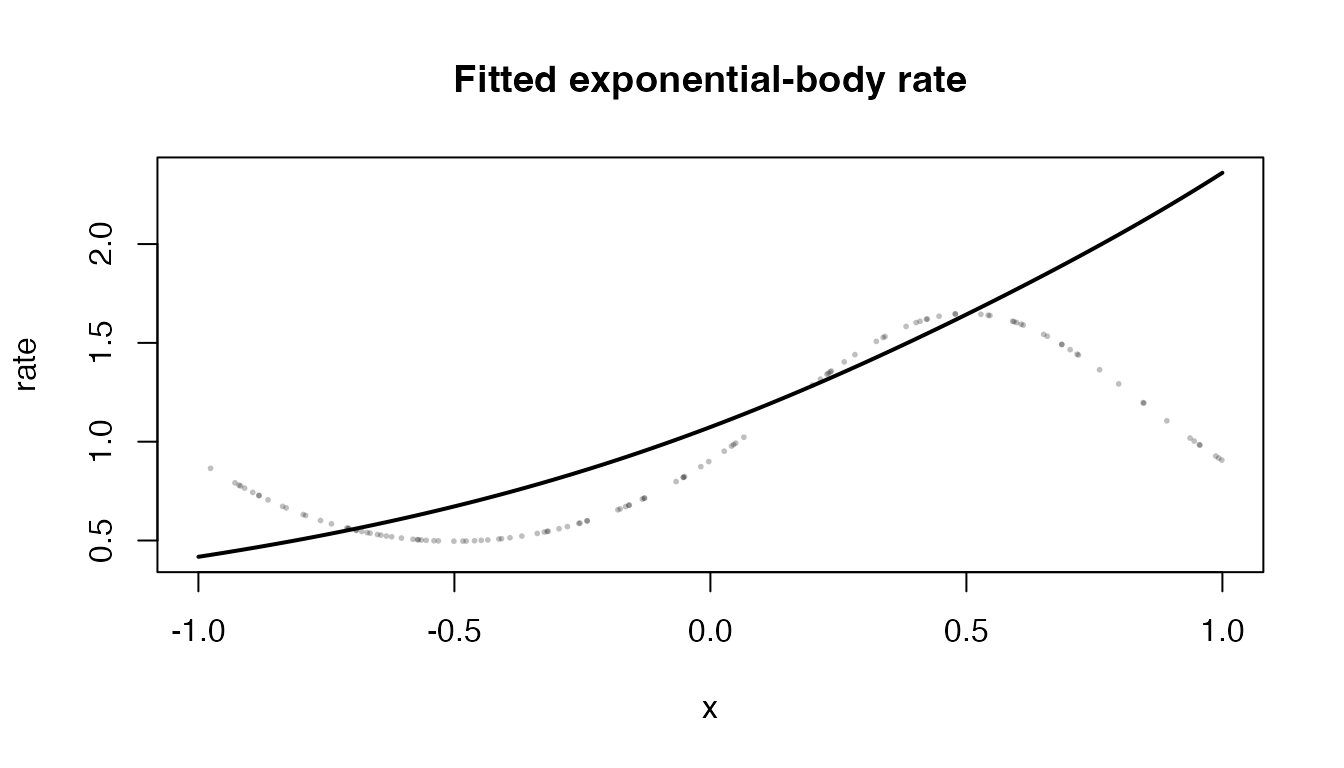
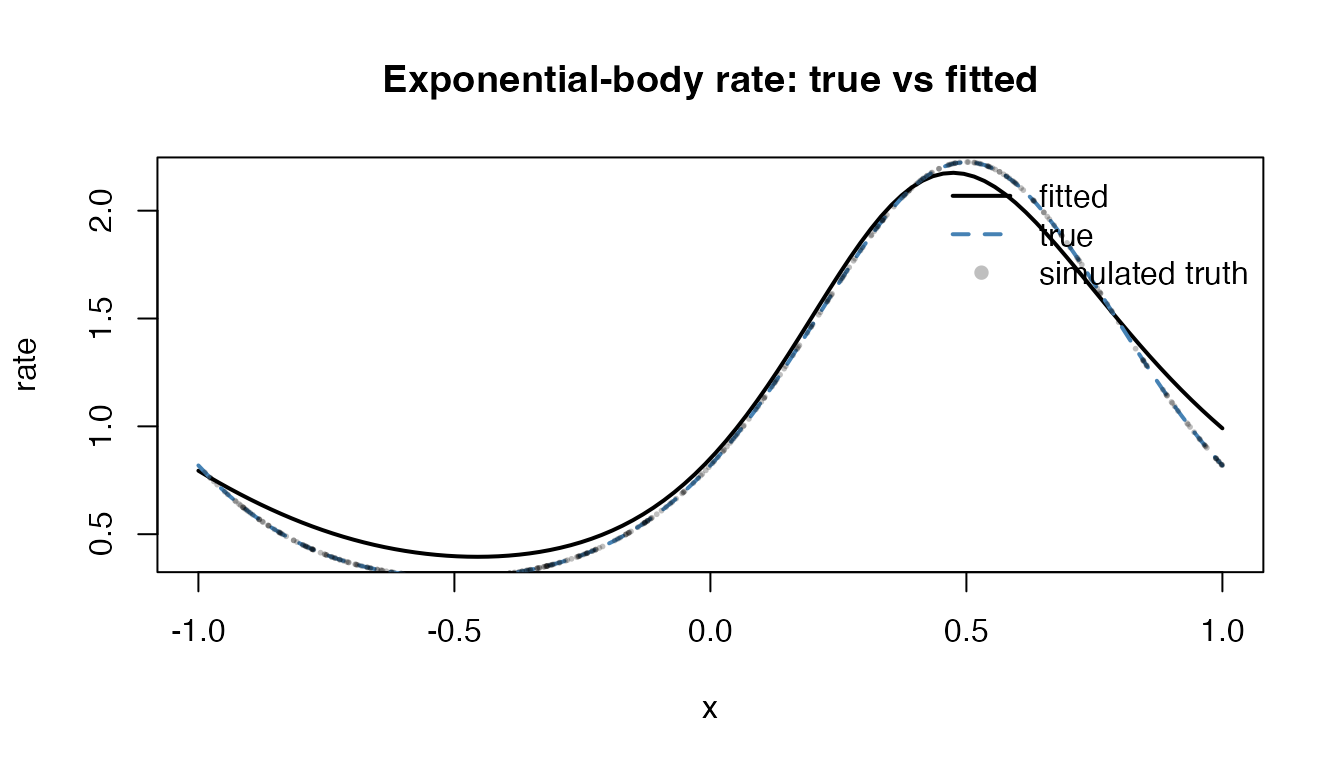
Refresh composite Pareto article

diff --git a/articles/composite-pareto.html b/articles/composite-pareto.html
@@ -213,16 +213,18 @@ examples because it only needs three parameter formulas.</p>
 <h2 id="fitting-a-comppareto-gam">4. Fitting a CompPareto GAM<a class="anchor" aria-label="anchor" href="#fitting-a-comppareto-gam"></a>
 </h2>
 <p>Here we simulate data from an exponential-body composite Pareto model
-with a smooth predictor effect on the body rate.</p>
+with a smooth predictor effect on the body rate. For this illustration,
+we use a somewhat larger sample and a higher splice point so the
+nonlinear body signal is visible in the fitted GAM.</p>
 <div class="sourceCode" id="cb6"><pre class="downlit sourceCode r">
 <code class="sourceCode R"><span><span class="fu"><a href="https://rdrr.io/r/base/Random.html" class="external-link">set.seed</a></span><span class="op">(</span><span class="fl">22</span><span class="op">)</span></span>
 <span></span>
-<span><span class="va">n</span> <span class="op">&lt;-</span> <span class="fl">120</span></span>
+<span><span class="va">n</span> <span class="op">&lt;-</span> <span class="fl">400</span></span>
 <span><span class="va">x</span> <span class="op">&lt;-</span> <span class="fu"><a href="https://rdrr.io/r/base/sort.html" class="external-link">sort</a></span><span class="op">(</span><span class="fu">stats</span><span class="fu">::</span><span class="fu"><a href="https://rdrr.io/r/stats/Uniform.html" class="external-link">runif</a></span><span class="op">(</span><span class="va">n</span>, <span class="op">-</span><span class="fl">1</span>, <span class="fl">1</span><span class="op">)</span><span class="op">)</span></span>
-<span><span class="va">rate</span> <span class="op">&lt;-</span> <span class="fu"><a href="https://rdrr.io/r/base/Log.html" class="external-link">exp</a></span><span class="op">(</span><span class="op">-</span><span class="fl">0.1</span> <span class="op">+</span> <span class="fl">0.6</span> <span class="op">*</span> <span class="fu"><a href="https://rdrr.io/r/base/Trig.html" class="external-link">sin</a></span><span class="op">(</span><span class="va">pi</span> <span class="op">*</span> <span class="va">x</span><span class="op">)</span><span class="op">)</span></span>
+<span><span class="va">rate</span> <span class="op">&lt;-</span> <span class="fu"><a href="https://rdrr.io/r/base/Log.html" class="external-link">exp</a></span><span class="op">(</span><span class="op">-</span><span class="fl">0.2</span> <span class="op">+</span> <span class="fl">1.0</span> <span class="op">*</span> <span class="fu"><a href="https://rdrr.io/r/base/Trig.html" class="external-link">sin</a></span><span class="op">(</span><span class="va">pi</span> <span class="op">*</span> <span class="va">x</span><span class="op">)</span><span class="op">)</span></span>
 <span><span class="va">y</span> <span class="op">&lt;-</span> <span class="fu"><a href="https://rdrr.io/r/base/lapply.html" class="external-link">vapply</a></span><span class="op">(</span></span>
 <span>  <span class="fu"><a href="https://rdrr.io/r/base/seq.html" class="external-link">seq_len</a></span><span class="op">(</span><span class="va">n</span><span class="op">)</span>,</span>
-<span>  <span class="kw">function</span><span class="op">(</span><span class="va">i</span><span class="op">)</span> <span class="fu"><a href="../reference/rcomppareto.html">rcomppareto</a></span><span class="op">(</span><span class="fl">1</span>, spec <span class="op">=</span> <span class="st">"exp"</span>, rate <span class="op">=</span> <span class="va">rate</span><span class="op">[</span><span class="va">i</span><span class="op">]</span>, alpha <span class="op">=</span> <span class="fl">1.3</span>, theta <span class="op">=</span> <span class="fl">1.5</span><span class="op">)</span>,</span>
+<span>  <span class="kw">function</span><span class="op">(</span><span class="va">i</span><span class="op">)</span> <span class="fu"><a href="../reference/rcomppareto.html">rcomppareto</a></span><span class="op">(</span><span class="fl">1</span>, spec <span class="op">=</span> <span class="st">"exp"</span>, rate <span class="op">=</span> <span class="va">rate</span><span class="op">[</span><span class="va">i</span><span class="op">]</span>, alpha <span class="op">=</span> <span class="fl">1.3</span>, theta <span class="op">=</span> <span class="fl">3.5</span><span class="op">)</span>,</span>
 <span>  <span class="fu"><a href="https://rdrr.io/r/base/numeric.html" class="external-link">numeric</a></span><span class="op">(</span><span class="fl">1</span><span class="op">)</span></span>
 <span><span class="op">)</span></span>
 <span></span>
@@ -233,7 +235,7 @@ through <code>comppareto.args</code>.</p>
 <div class="sourceCode" id="cb7"><pre class="downlit sourceCode r">
 <code class="sourceCode R"><span><span class="va">fit</span> <span class="op">&lt;-</span> <span class="fu"><a href="https://rdrr.io/r/base/message.html" class="external-link">suppressMessages</a></span><span class="op">(</span></span>
 <span>  <span class="fu"><a href="../reference/egpd.html">egpd</a></span><span class="op">(</span></span>
-<span>    <span class="fu"><a href="https://rdrr.io/r/base/list.html" class="external-link">list</a></span><span class="op">(</span>lograte <span class="op">=</span> <span class="va">y</span> <span class="op">~</span> <span class="fu">s</span><span class="op">(</span><span class="va">x</span>, k <span class="op">=</span> <span class="fl">5</span><span class="op">)</span>, logalpha <span class="op">=</span> <span class="op">~</span><span class="fl">1</span>, logtheta <span class="op">=</span> <span class="op">~</span><span class="fl">1</span><span class="op">)</span>,</span>
+<span>    <span class="fu"><a href="https://rdrr.io/r/base/list.html" class="external-link">list</a></span><span class="op">(</span>lograte <span class="op">=</span> <span class="va">y</span> <span class="op">~</span> <span class="fu">s</span><span class="op">(</span><span class="va">x</span>, k <span class="op">=</span> <span class="fl">7</span><span class="op">)</span>, logalpha <span class="op">=</span> <span class="op">~</span><span class="fl">1</span>, logtheta <span class="op">=</span> <span class="op">~</span><span class="fl">1</span><span class="op">)</span>,</span>
 <span>    data <span class="op">=</span> <span class="va">dat</span>,</span>
 <span>    family <span class="op">=</span> <span class="st">"comppareto"</span>,</span>
 <span>    comppareto.args <span class="op">=</span> <span class="fu"><a href="https://rdrr.io/r/base/list.html" class="external-link">list</a></span><span class="op">(</span>spec <span class="op">=</span> <span class="st">"exp"</span><span class="op">)</span></span>
@@ -247,20 +249,29 @@ way.</p>
 <div class="sourceCode" id="cb8"><pre class="downlit sourceCode r">
 <code class="sourceCode R"><span><span class="va">pred_grid</span> <span class="op">&lt;-</span> <span class="fu"><a href="https://rdrr.io/r/base/data.frame.html" class="external-link">data.frame</a></span><span class="op">(</span>x <span class="op">=</span> <span class="fu"><a href="https://rdrr.io/r/base/seq.html" class="external-link">seq</a></span><span class="op">(</span><span class="op">-</span><span class="fl">1</span>, <span class="fl">1</span>, length.out <span class="op">=</span> <span class="fl">100</span><span class="op">)</span><span class="op">)</span></span>
 <span><span class="va">pars_hat</span> <span class="op">&lt;-</span> <span class="fu"><a href="https://rdrr.io/r/stats/predict.html" class="external-link">predict</a></span><span class="op">(</span><span class="va">fit</span>, newdata <span class="op">=</span> <span class="va">pred_grid</span>, type <span class="op">=</span> <span class="st">"response"</span><span class="op">)</span></span>
+<span><span class="va">rate_true</span> <span class="op">&lt;-</span> <span class="fu"><a href="https://rdrr.io/r/base/Log.html" class="external-link">exp</a></span><span class="op">(</span><span class="op">-</span><span class="fl">0.2</span> <span class="op">+</span> <span class="fl">1.0</span> <span class="op">*</span> <span class="fu"><a href="https://rdrr.io/r/base/Trig.html" class="external-link">sin</a></span><span class="op">(</span><span class="va">pi</span> <span class="op">*</span> <span class="va">pred_grid</span><span class="op">$</span><span class="va">x</span><span class="op">)</span><span class="op">)</span></span>
 <span></span>
 <span><span class="fu"><a href="https://rdrr.io/r/utils/head.html" class="external-link">head</a></span><span class="op">(</span><span class="fu"><a href="https://rdrr.io/r/base/Round.html" class="external-link">round</a></span><span class="op">(</span><span class="va">pars_hat</span>, <span class="fl">3</span><span class="op">)</span><span class="op">)</span></span>
 <span><span class="co">#&gt;    rate alpha theta</span></span>
-<span><span class="co">#&gt; 1 0.418 1.031  0.89</span></span>
-<span><span class="co">#&gt; 2 0.426 1.031  0.89</span></span>
-<span><span class="co">#&gt; 3 0.434 1.031  0.89</span></span>
-<span><span class="co">#&gt; 4 0.442 1.031  0.89</span></span>
-<span><span class="co">#&gt; 5 0.451 1.031  0.89</span></span>
-<span><span class="co">#&gt; 6 0.460 1.031  0.89</span></span></code></pre></div>
+<span><span class="co">#&gt; 1 0.794 1.219  3.98</span></span>
+<span><span class="co">#&gt; 2 0.766 1.219  3.98</span></span>
+<span><span class="co">#&gt; 3 0.738 1.219  3.98</span></span>
+<span><span class="co">#&gt; 4 0.712 1.219  3.98</span></span>
+<span><span class="co">#&gt; 5 0.686 1.219  3.98</span></span>
+<span><span class="co">#&gt; 6 0.662 1.219  3.98</span></span></code></pre></div>
 <div class="sourceCode" id="cb9"><pre class="downlit sourceCode r">
 <code class="sourceCode R"><span><span class="fu"><a href="https://rdrr.io/r/graphics/plot.default.html" class="external-link">plot</a></span><span class="op">(</span><span class="va">pred_grid</span><span class="op">$</span><span class="va">x</span>, <span class="va">pars_hat</span><span class="op">$</span><span class="va">rate</span>, type <span class="op">=</span> <span class="st">"l"</span>, lwd <span class="op">=</span> <span class="fl">2</span>,</span>
-<span>     xlab <span class="op">=</span> <span class="st">"x"</span>, ylab <span class="op">=</span> <span class="st">"rate"</span>, main <span class="op">=</span> <span class="st">"Fitted exponential-body rate"</span><span class="op">)</span></span>
-<span><span class="fu"><a href="https://rdrr.io/r/graphics/points.html" class="external-link">points</a></span><span class="op">(</span><span class="va">x</span>, <span class="va">rate</span>, pch <span class="op">=</span> <span class="fl">16</span>, cex <span class="op">=</span> <span class="fl">0.4</span>, col <span class="op">=</span> <span class="fu">grDevices</span><span class="fu">::</span><span class="fu"><a href="https://rdrr.io/r/grDevices/adjustcolor.html" class="external-link">adjustcolor</a></span><span class="op">(</span><span class="st">"black"</span>, alpha.f <span class="op">=</span> <span class="fl">0.25</span><span class="op">)</span><span class="op">)</span></span></code></pre></div>
+<span>     xlab <span class="op">=</span> <span class="st">"x"</span>, ylab <span class="op">=</span> <span class="st">"rate"</span>, main <span class="op">=</span> <span class="st">"Exponential-body rate: true vs fitted"</span><span class="op">)</span></span>
+<span><span class="fu"><a href="https://rdrr.io/r/graphics/lines.html" class="external-link">lines</a></span><span class="op">(</span><span class="va">pred_grid</span><span class="op">$</span><span class="va">x</span>, <span class="va">rate_true</span>, lwd <span class="op">=</span> <span class="fl">2</span>, lty <span class="op">=</span> <span class="fl">2</span>, col <span class="op">=</span> <span class="st">"steelblue"</span><span class="op">)</span></span>
+<span><span class="fu"><a href="https://rdrr.io/r/graphics/points.html" class="external-link">points</a></span><span class="op">(</span><span class="va">x</span>, <span class="va">rate</span>, pch <span class="op">=</span> <span class="fl">16</span>, cex <span class="op">=</span> <span class="fl">0.4</span>, col <span class="op">=</span> <span class="fu">grDevices</span><span class="fu">::</span><span class="fu"><a href="https://rdrr.io/r/grDevices/adjustcolor.html" class="external-link">adjustcolor</a></span><span class="op">(</span><span class="st">"black"</span>, alpha.f <span class="op">=</span> <span class="fl">0.25</span><span class="op">)</span><span class="op">)</span></span>
+<span><span class="fu"><a href="https://rdrr.io/r/graphics/legend.html" class="external-link">legend</a></span><span class="op">(</span><span class="st">"topright"</span>,</span>
+<span>       legend <span class="op">=</span> <span class="fu"><a href="https://rdrr.io/r/base/c.html" class="external-link">c</a></span><span class="op">(</span><span class="st">"fitted"</span>, <span class="st">"true"</span>, <span class="st">"simulated truth"</span><span class="op">)</span>,</span>
+<span>       lty <span class="op">=</span> <span class="fu"><a href="https://rdrr.io/r/base/c.html" class="external-link">c</a></span><span class="op">(</span><span class="fl">1</span>, <span class="fl">2</span>, <span class="cn">NA</span><span class="op">)</span>, lwd <span class="op">=</span> <span class="fu"><a href="https://rdrr.io/r/base/c.html" class="external-link">c</a></span><span class="op">(</span><span class="fl">2</span>, <span class="fl">2</span>, <span class="cn">NA</span><span class="op">)</span>, pch <span class="op">=</span> <span class="fu"><a href="https://rdrr.io/r/base/c.html" class="external-link">c</a></span><span class="op">(</span><span class="cn">NA</span>, <span class="cn">NA</span>, <span class="fl">16</span><span class="op">)</span>,</span>
+<span>       col <span class="op">=</span> <span class="fu"><a href="https://rdrr.io/r/base/c.html" class="external-link">c</a></span><span class="op">(</span><span class="st">"black"</span>, <span class="st">"steelblue"</span>, <span class="fu">grDevices</span><span class="fu">::</span><span class="fu"><a href="https://rdrr.io/r/grDevices/adjustcolor.html" class="external-link">adjustcolor</a></span><span class="op">(</span><span class="st">"black"</span>, alpha.f <span class="op">=</span> <span class="fl">0.25</span><span class="op">)</span><span class="op">)</span>,</span>
+<span>       bty <span class="op">=</span> <span class="st">"n"</span><span class="op">)</span></span></code></pre></div>
 <p><img src="composite-pareto_files/figure-html/gam-plot-1.png" class="r-plt" alt="" width="672"></p>
+<p>In this setup, the fitted smooth tracks the nonlinear truth well
+rather than shrinking toward a nearly linear trend.</p>
 <p>Quantile prediction also works through the regular
 <code><a href="../reference/predict.egpd.html">predict.egpd()</a></code> interface.</p>
 <div class="sourceCode" id="cb10"><pre class="downlit sourceCode r">
@@ -273,15 +284,15 @@ way.</p>
 <span>  <span class="op">)</span>,</span>
 <span>  <span class="fl">3</span></span>
 <span><span class="op">)</span></span>
-<span><span class="co">#&gt;   q:0.5 q:0.9 q:0.99</span></span>
-<span><span class="co">#&gt; 1 1.245 9.287 94.156</span></span>
-<span><span class="co">#&gt; 2 1.245 9.287 94.156</span></span>
-<span><span class="co">#&gt; 3 1.245 9.287 94.156</span></span></code></pre></div>
+<span><span class="co">#&gt;   q:0.5  q:0.9  q:0.99</span></span>
+<span><span class="co">#&gt; 1  2.06 17.374 137.146</span></span>
+<span><span class="co">#&gt; 2  2.06 17.374 137.146</span></span>
+<span><span class="co">#&gt; 3  2.06 17.374 137.146</span></span></code></pre></div>
 <p>Randomized quantile residuals are available as well.</p>
 <div class="sourceCode" id="cb11"><pre class="downlit sourceCode r">
 <code class="sourceCode R"><span><span class="fu"><a href="https://rdrr.io/r/base/summary.html" class="external-link">summary</a></span><span class="op">(</span><span class="fu"><a href="../reference/rqresid.html">rqresid</a></span><span class="op">(</span><span class="va">fit</span>, seed <span class="op">=</span> <span class="fl">1</span><span class="op">)</span><span class="op">)</span></span>
-<span><span class="co">#&gt;     Min.  1st Qu.   Median     Mean  3rd Qu.     Max. </span></span>
-<span><span class="co">#&gt; -2.39004 -0.61597 -0.05425  0.02381  0.61878  2.40466</span></span></code></pre></div>
+<span><span class="co">#&gt;      Min.   1st Qu.    Median      Mean   3rd Qu.      Max. </span></span>
+<span><span class="co">#&gt; -3.638041 -0.672671  0.025790  0.006043  0.664020  3.182872</span></span></code></pre></div>
 </div>
 <div class="section level2">
 <h2 id="intercept-only-four-parameter-fits">5. Intercept-only four-parameter fits<a class="anchor" aria-label="anchor" href="#intercept-only-four-parameter-fits"></a>
